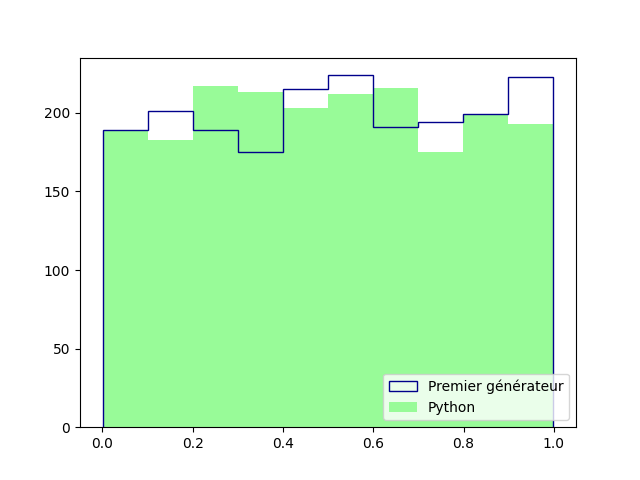
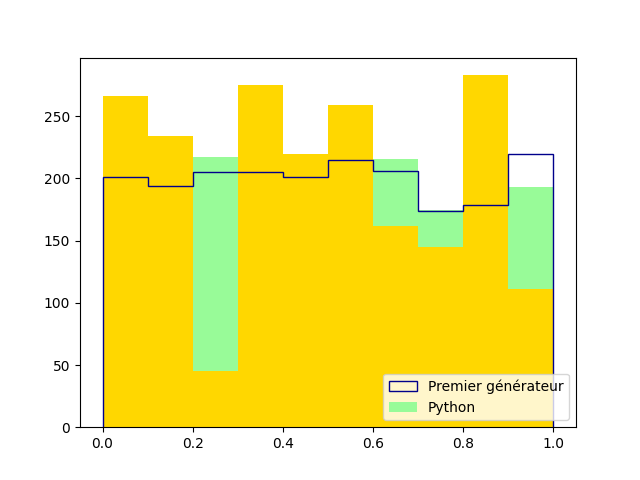
ajout nouveau generateur

diff --git a/generators.py b/generators.py
@@ -1,5 +1,5 @@
 import math
-
+import datetime
 import numpy as np
 
 from generateur import open_file
@@ -7,18 +7,52 @@ from generateur import open_file
 py_numbers = np.array(list(open_file()))
 
 class Generator1:
-	
-	
-	def __init__(self, seed=0, nb_digits=10):
-		self.seed = seed
-		self.index = seed % len(py_numbers)
-		self.nb_digits = nb_digits
+    
+    
+    def __init__(self, seed=0, nb_digits=10):
+        self.seed = seed
+        self.index = seed % len(py_numbers)
+        self.nb_digits = nb_digits
 
-	def random(self):
-		digits = []
-		for i in range(self.nb_digits):
-			digit = py_numbers[self.index]
-			digits.append(digit)
-			self.index = (self.index + 1) % len(py_numbers)
-		return float("0." + "".join(map(lambda x: str(x), digits)))
+    def random(self):
+        digits = []
+        for i in range(self.nb_digits):
+            digit = py_numbers[self.index]
+            digits.append(digit)
+            self.index = (self.index + 1) % len(py_numbers)
+        return float("0." + "".join(map(lambda x: str(x), digits)))
 
+class Generator2:
+
+    def __init__(self, seed=0, nb_digits=10):
+        self.seed = seed
+        self.index = seed % len(e_numbers)
+        self.nb_digits = nb_digits
+
+    def random(self):
+        digits = []
+        for j in range(3):
+            digit = []
+            for k in range(self.nb_digits):
+                digit2 = py_numbers[self.index]
+                digit.append(digit2)
+                self.index = (self.index + 1) % len(e_numbers)
+            digits.append(float("0." + "".join(map(lambda x: str(x), digit))))
+        return math.sqrt(sum([x ** 2 for x in digit])) / math.sqrt(3)
+
+class Generator3:
+    
+    def __init__(self, nb_digits=10):
+        self.nb_digits = nb_digits
+
+
+    def random(self):
+        digits = []
+        for _ in range(self.nb_digits):
+            timing = datetime.datetime.now().microsecond #prend la date en microseconde
+            digit = (timing*424242)%(2**32)
+            index = (digit/(2**32)) * 1000000
+        
+            digit_result = py_numbers[int(index)] #selectionne le digit dans les decimales de pi a l'index index
+            digits.append(digit_result)
+        return float("0." + "".join(map(lambda x: str(x), digits)))

diff --git a/generateur.py b/generateur.py
@@ -35,13 +35,22 @@ if __name__ == '__main__':
 
     print(gen_numbers_1)
 
+    randomgen3 = Generator3()
+    gen_numbers_3 = [randomgen3.random() for _ in range(2000)]
+
+    print(gen_numbers_1)
+    print("---------------------------------------")
+    print(gen_numbers_3)
+
     print(f"Test de Kolmogorov-Smirnov pour notre générateur : \n"
         f"1 --> {kolmogorov_smirnov(gen_numbers_1)} \n"
+        f"3 --> {kolmogorov_smirnov(gen_numbers_3)} \n"
         f"Python --> {kolmogorov_smirnov(pyth_numbers)}")
 
     
     plt.figure()
     plt.hist(gen_numbers_1, color='palegreen', histtype='barstacked')
+    plt.hist(gen_numbers_3, color='gold', histtype='barstacked')
     plt.hist(pyth_numbers, color='darkblue', histtype='step')
     plt.legend({'Premier générateur', 'Python'}, loc=4)
     plt.savefig('generator1.png')
